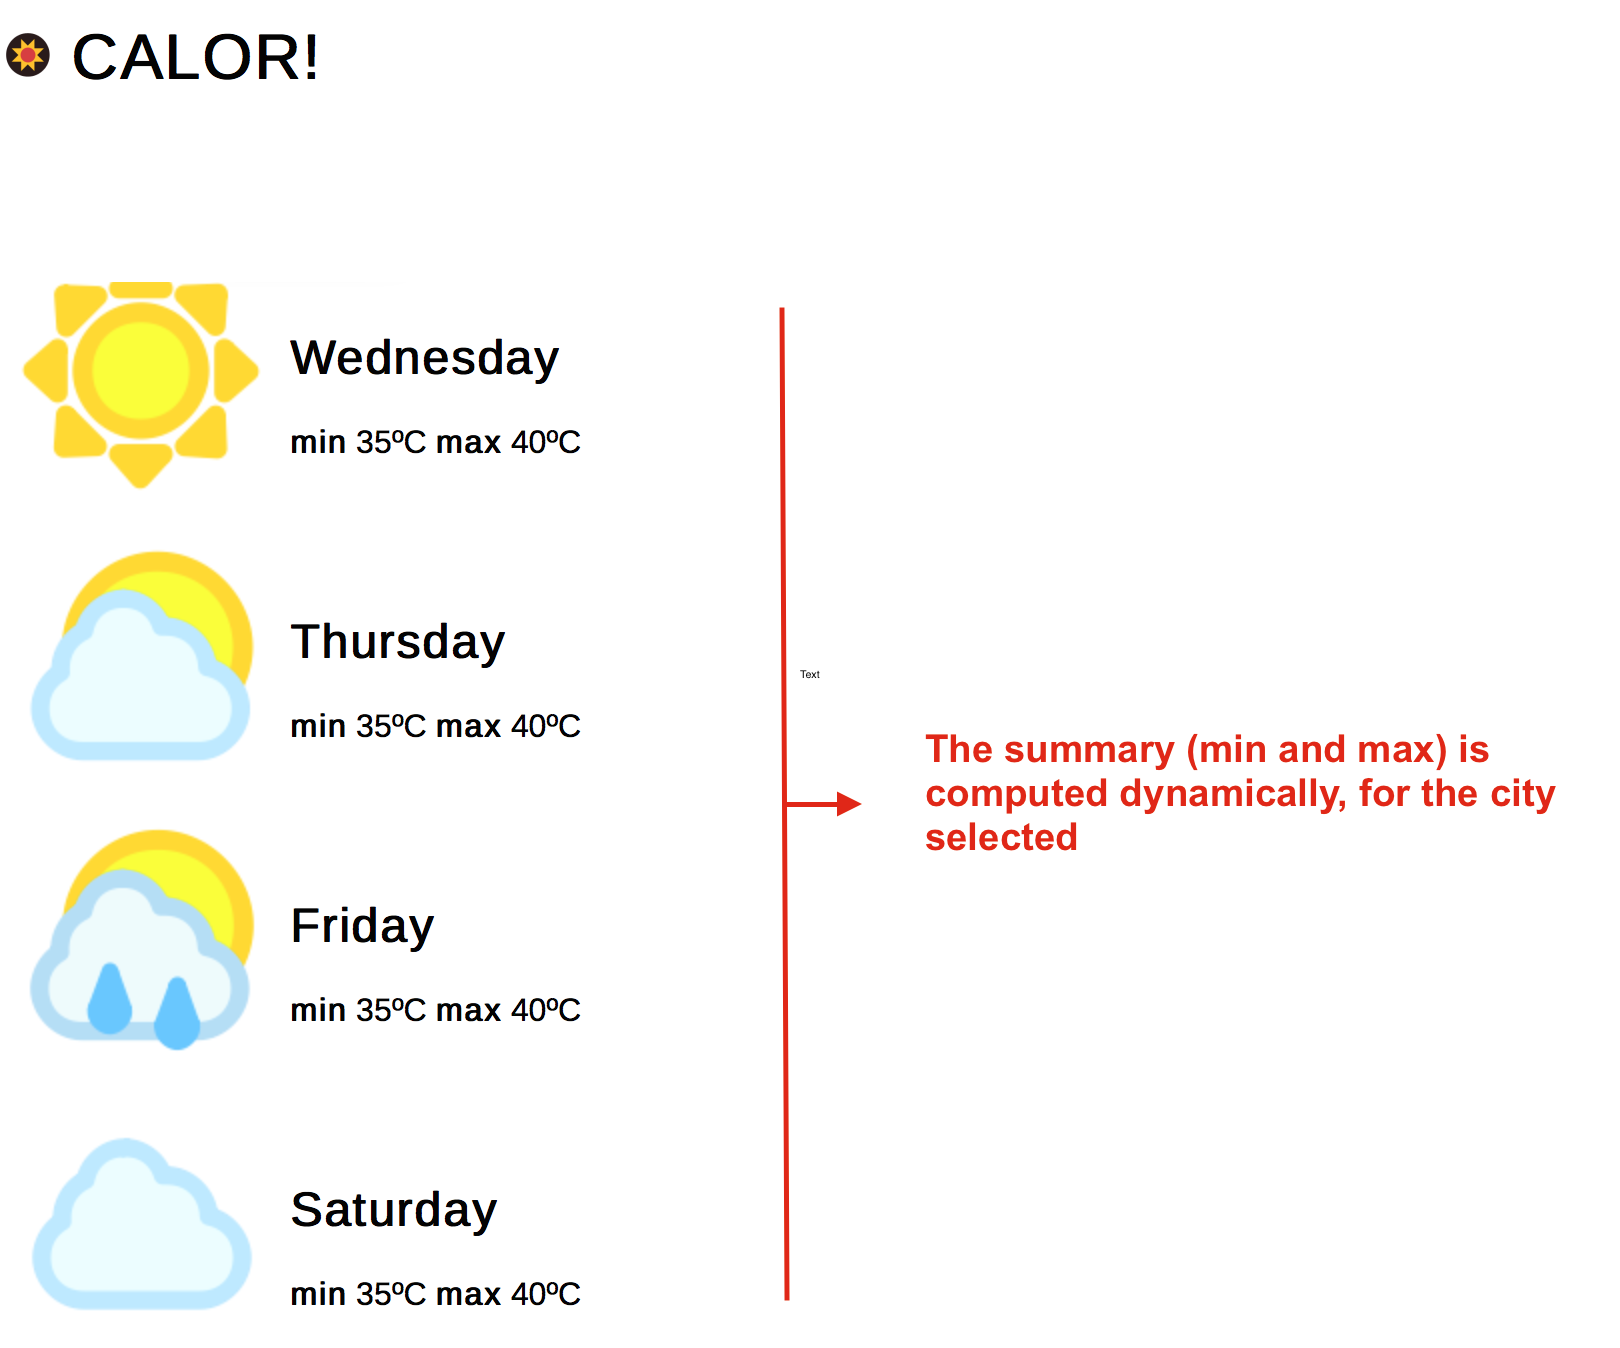
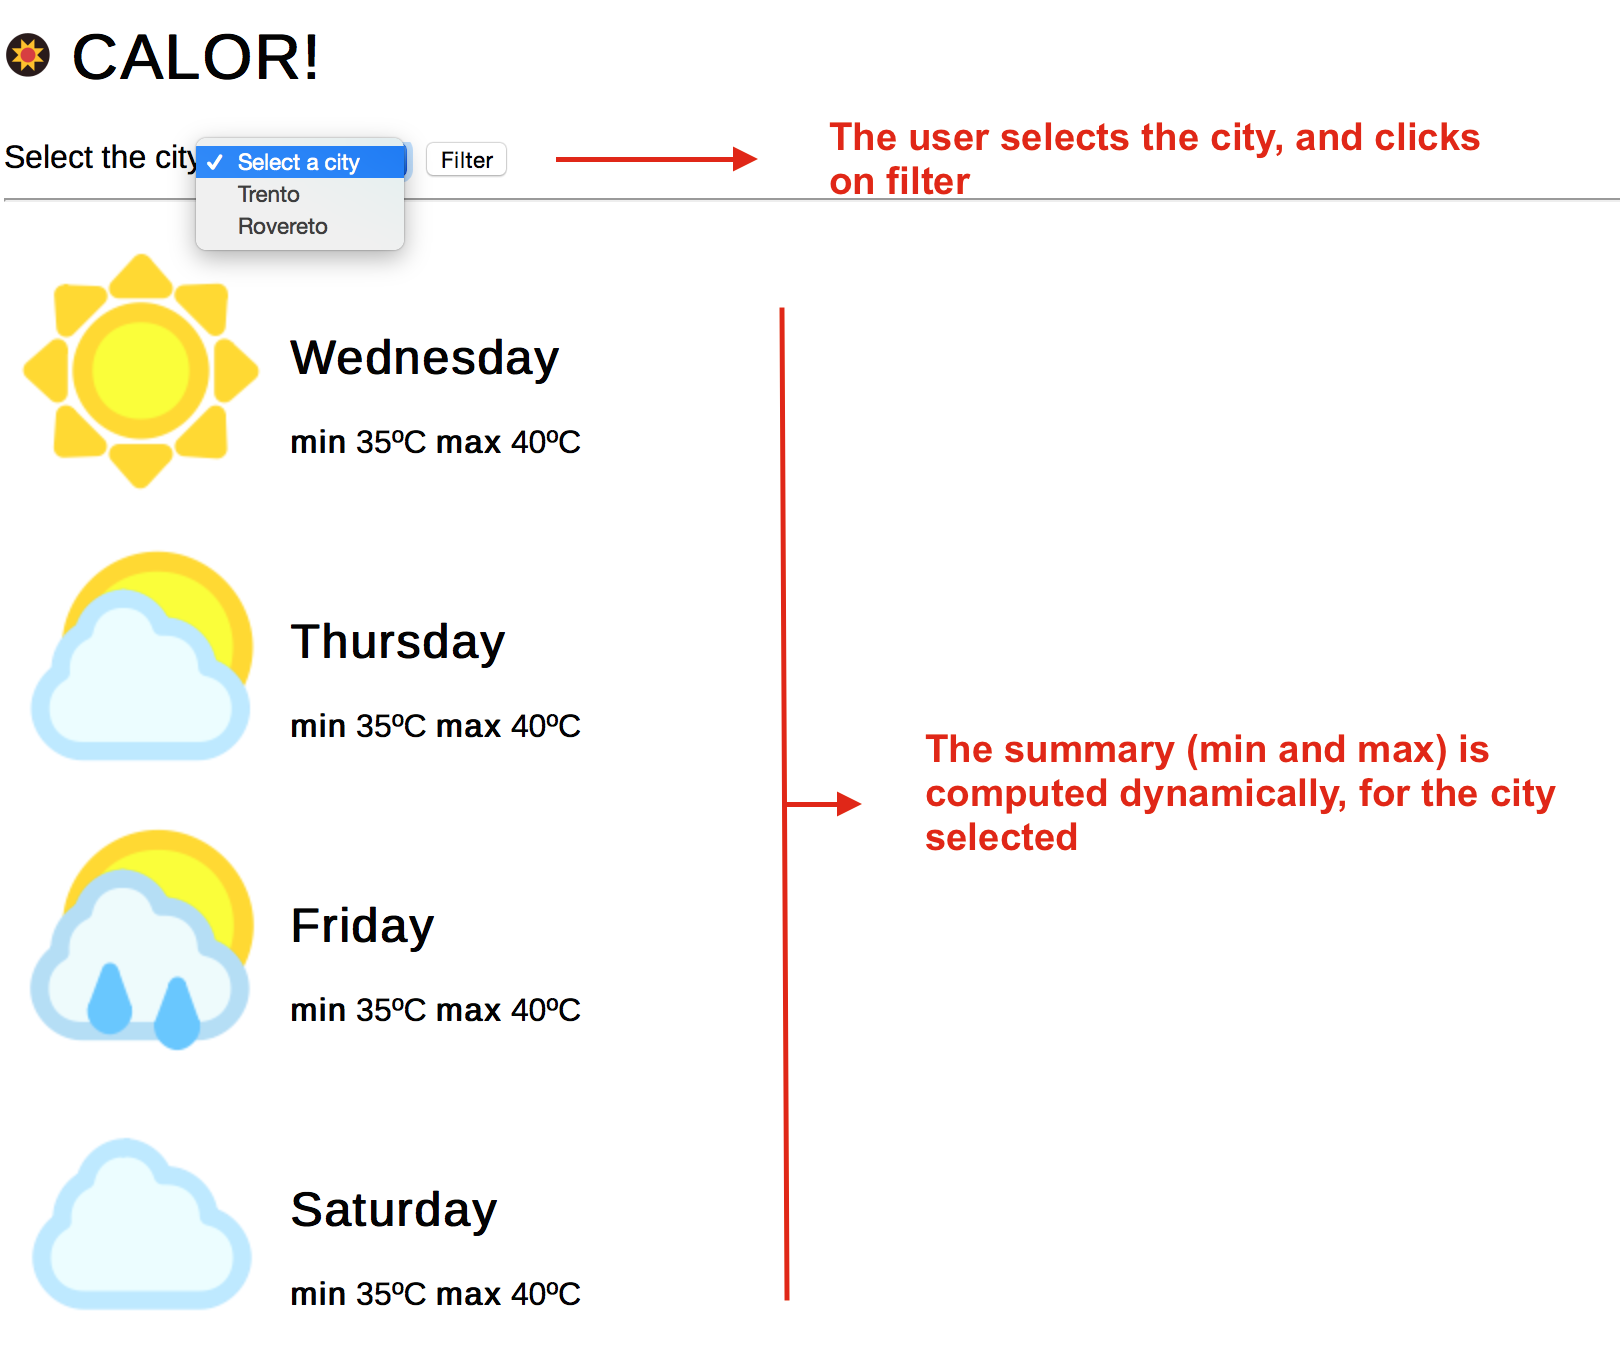
Initial work on color+

Changed region(s): [[0.0, 0.0935, 0.3086, 0.2181], [0.4938, 0.0935, 0.9259, 0.1558], [0.3395, 0.0935, 0.463, 0.1246]]

diff --git a/data.js b/data.js
@@ -5,99 +5,230 @@ var data = [
  day : "Wednesday",
  period : "morning",
  temperature : 29,
+ city : "trento",
  condition: "sunny"
 },   
 {
  day : "Wednesday",
  period : "noon",
  temperature : 32,
+ city : "trento",
  condition: "sunny"
 },   
 {
  day : "Wednesday",
  period : "afternoon",
  temperature : 34,
+ city : "trento",
  condition: "sunny"
 },   
 {
  day : "Wednesday",
  period : "evening",
  temperature : 33,
+ city : "trento",
  condition: "sunny"
 },
+{
+ day : "Wednesday",
+ period : "morning",
+ temperature : 29,
+ city : "rovereto",
+ condition: "sunny"
+},   
+{
+ day : "Wednesday",
+ period : "noon",
+ temperature : 33,
+ city : "rovereto",
+ condition: "sunny"
+},   
+{
+ day : "Wednesday",
+ period : "afternoon",
+ temperature : 35,
+ city : "rovereto",
+ condition: "sunny"
+},   
+{
+ day : "Wednesday",
+ period : "evening",
+ temperature : 33,
+ city : "rovereto",
+ condition: "sunny"
+}, 
+  
 {
  day : "Thursday",
  period : "morning",
  temperature : 27,
+ city : "trento",
  condition: "sunny-cloudy"
 },   
 {
  day : "Thursday",
  period : "noon",
  temperature : 31,
+ city : "trento",
  condition: "sunny-cloudy"
 },   
 {
  day : "Thursday",
  period : "afternoon",
  temperature : 32,
+ city : "trento",
  condition: "sunny-cloudy"
 },   
 {
  day : "Thursday",
  period : "evening",
  temperature : 30,
+ city : "trento",
  condition: "sunny-cloudy"
 },
+{
+ day : "Thursday",
+ period : "morning",
+ temperature : 28,
+ city : "rovereto",
+ condition: "sunny-cloudy"
+},   
+{
+ day : "Thursday",
+ period : "noon",
+ temperature : 33,
+ city : "rovereto",
+ condition: "sunny-cloudy"
+},   
+{
+ day : "Thursday",
+ period : "afternoon",
+ temperature : 34,
+ city : "rovereto",
+ condition: "sunny-cloudy"
+},   
+{
+ day : "Thursday",
+ period : "evening",
+ temperature : 31,
+ city : "rovereto",
+ condition: "sunny-cloudy"
+},   
+  
  
 {
  day : "Friday",
  period : "morning",
  temperature : 28,
+ city : "trento",
  condition : "sunny-rainy"
 },   
 {
  day : "Friday",
  period : "noon",
  temperature : 32,
+ city : "trento",
  condition : "sunny-rainy"
 },   
 {
  day : "Friday",
  period : "afternoon",
  temperature : 33,
+ city : "trento",
  condition : "sunny-rainy"
 },   
 {
  day : "Friday",
  period : "evening",
  temperature : 31,
+ city : "trento",
  condition : "sunny-rainy"
 },
+{
+ day : "Friday",
+ period : "morning",
+ temperature : 29,
+ city : "rovereto",
+ condition : "sunny-rainy"
+},   
+{
+ day : "Friday",
+ period : "noon",
+ temperature : 34,
+ city : "rovereto",
+ condition : "sunny-rainy"
+},   
+{
+ day : "Friday",
+ period : "afternoon",
+ temperature : 35,
+ city : "rovereto",
+ condition : "sunny-rainy"
+},   
+{
+ day : "Friday",
+ period : "evening",
+ temperature : 32,
+ city : "rovereto",
+ condition : "sunny-rainy"
+},   
+  
 
 {
  day : "Saturday",
  period : "morning",
  temperature : 27,
+ city : "trento",
  condition : "cloudy"
 },   
 {
  day : "Saturday",
  period : "noon",
  temperature : 30,
+ city : "trento",
  condition : "cloudy"
 },   
 {
  day : "Saturday",
  period : "afternoon",
  temperature : 31,
+ city : "trento",
  condition : "cloudy"
 },   
 {
  day : "Saturday",
  period : "evening",
  temperature : 29,
+ city : "trento",
  condition : "cloudy"
-}
+},
+{
+ day : "Saturday",
+ period : "morning",
+ temperature : 27,
+ city : "rovereto",
+ condition : "cloudy"
+},   
+{
+ day : "Saturday",
+ period : "noon",
+ temperature : 32,
+ city : "rovereto",
+ condition : "cloudy"
+},   
+{
+ day : "Saturday",
+ period : "afternoon",
+ temperature : 33,
+ city : "rovereto",
+ condition : "cloudy"
+},   
+{
+ day : "Saturday",
+ period : "evening",
+ temperature : 30,
+ city : "rovereto",
+ condition : "cloudy"
+},   
   
 ];

diff --git a/index.html b/index.html
@@ -12,7 +12,17 @@
 
 <body>
  <h1><img src="img/logo.png"> CALOR!</h1>
-  
+
+    <div class="options"> 
+     Select the city 
+     <select>          
+       <option value=""> Select a city</option>
+       <option value="trento"> Trento</option>
+       <option value="rovereto">Rovereto</option>
+     </select>
+     <button id="btn-filter">Filter</button>  
+      
+    </div>   
    <hr>
     <ul id="summary">
         <!-- This is an example - the summary should be computed dynamically -->
